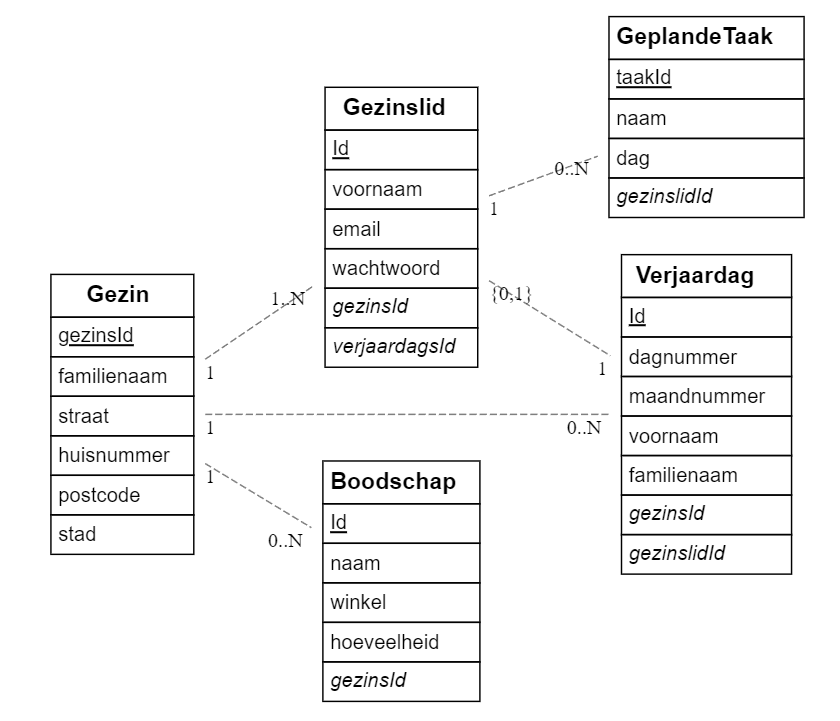
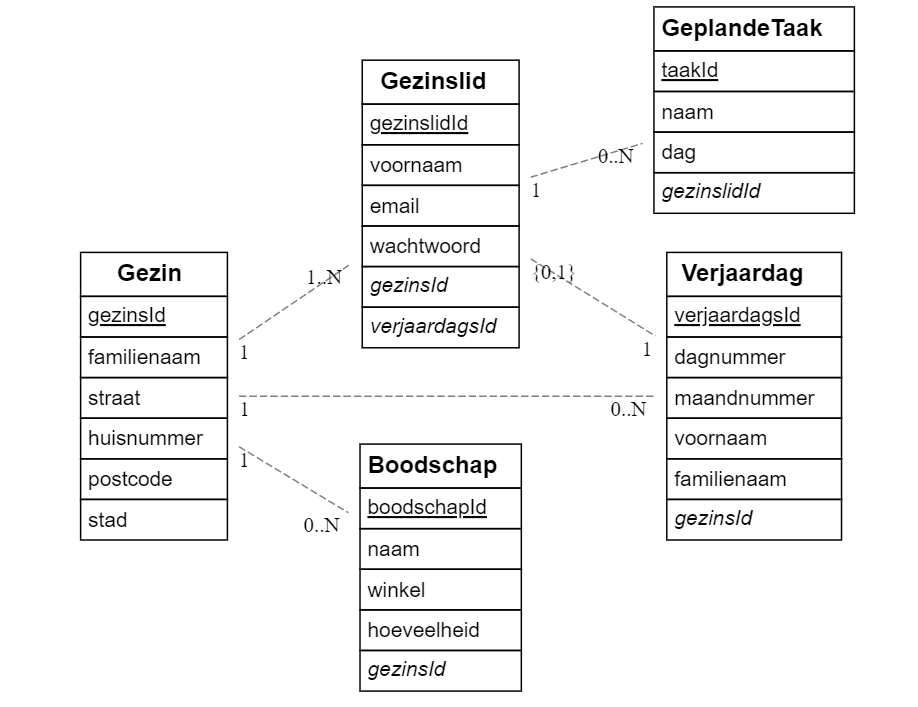
Maken SQL-DB en instellen connectie

diff --git a/src/data/index.js b/src/data/index.js
@@ -1,0 +1,75 @@
+const knex = require('knex'); // 👈 4
+const { getLogger } = require('../core/logging'); // 👈 8
+
+// 👇 1 - start config
+const config = require('config');
+
+const NODE_ENV = config.get('env');
+const isDevelopment = NODE_ENV === 'development';
+
+const DATABASE_CLIENT = config.get('database.client');
+const DATABASE_NAME = config.get('database.name');
+const DATABASE_HOST = config.get('database.host');
+const DATABASE_PORT = config.get('database.port');
+const DATABASE_USERNAME = config.get('database.username');
+const DATABASE_PASSWORD = config.get('database.password');
+// 👆 1 einde config
+
+let knexInstance; // 👈 5
+
+// 👇 2
+async function initializeData() {
+  const logger = getLogger(); // 👈 9
+  logger.info('Initializing connection to the database'); // 👈 9
+
+  // 👇 6 - start knex opties
+  const knexOptions = {
+    client: DATABASE_CLIENT,
+    connection: {
+      host: DATABASE_HOST,
+      port: DATABASE_PORT,
+      database: DATABASE_NAME,
+      user: DATABASE_USERNAME,
+      password: DATABASE_PASSWORD,
+      insecureAuth: isDevelopment,
+    },
+  };
+  // 👆 6 einde knex opties
+  knexInstance = knex(knexOptions); // 👈 7
+
+  // 👇 8
+  try {
+    await knexInstance.raw('SELECT 1+1 AS result');
+  } catch (error) {
+    logger.error(error.message, { error }); // 👈 9
+    throw new Error('Could not initialize the data layer'); // 👈 10
+  }
+
+  logger.info('Successfully initialized connection to the database'); // 👈 9
+
+  return knexInstance; // 👈 7
+}
+
+// 👇 11
+function getKnex() {
+  if (!knexInstance)
+    throw new Error(
+      'Please initialize the data layer before getting the Knex instance'
+    );
+  return knexInstance;
+}
+
+// 👇 12
+const tables = Object.freeze({
+  gezin: 'gezin',
+  gezinslid: 'gezinsleden',
+  boodschap: 'boodschappen',
+  verjaardag: 'verjaardagen',
+  geplandeTaak: 'geplandetaken'
+});
+
+module.exports = {
+  initializeData, // 👈 3
+  getKnex, // 👈 11
+  tables, // 👈 12
+};

diff --git a/src/index.js b/src/index.js
@@ -1,27 +1,50 @@
-// index.js
+
 const Koa = require('koa');
 const { initializeLogger, getLogger } = require('./core/logging');
 const config = require('config');
 const bodyParser = require('koa-bodyparser');
-const installRest = require('./rest'); // 👈 2
+const installRest = require('./rest');
 const app = new Koa();
+const koaCors = require('@koa/cors');
+const { initializeData } = require('./data');
 
 const NODE_ENV = config.get('env');
 const LOG_LEVEL = config.get('logging.level'); 
 const LOG_DISABLED = config.get("logging.disabled");
 const HOST_PORT = config.get("host.port");
+const CORS_ORIGINS = config.get('cors.origins');
+const CORS_MAX_AGE = config.get('cors.maxAge');
 
-initializeLogger({
-  level: LOG_LEVEL,
-  disabled: LOG_DISABLED,
-  defaultMeta: {
-    NODE_ENV,
-  },
-});
+async function main(){  
+  initializeLogger({
+    level: LOG_LEVEL,
+    disabled: LOG_DISABLED,
+    defaultMeta: {
+      NODE_ENV,
+    },
+  });
 
-app.use(bodyParser());
-installRest(app);
+  await initializeData();
 
-app.listen(HOST_PORT, () => {
-  getLogger().info(`🚀 Server listening on http://localhost:${HOST_PORT}`)
-});
+  app.use(
+    koaCors({
+      origin: (ctx) => { // 👈 4
+        if (CORS_ORIGINS.indexOf(ctx.request.header.origin) !== -1) {
+          return ctx.request.header.origin;
+        }
+        // Not a valid domain at this point, let's return the first valid as we should return a string
+        return CORS_ORIGINS[0];
+      },
+      allowHeaders: ['Accept', 'Content-Type', 'Authorization'], // 👈 5
+      maxAge: CORS_MAX_AGE, // 👈 6
+    })
+  );
+
+  app.use(bodyParser());
+  installRest(app);
+
+  app.listen(HOST_PORT, () => {
+    getLogger().info(`🚀 Server listening on http://localhost:${HOST_PORT}`)
+  });
+}
+main();

diff --git a/config/development.js b/config/development.js
@@ -5,5 +5,17 @@ module.exports = {
   },
   host:{
     port:9000
-  }
+  },
+  cors: { // 👈 1
+    origins: ['http://localhost:5173'], // 👈 2
+    maxAge: 3 * 60 * 60, // 👈 3
+  },
+  database: {
+    client: 'mysql2',
+    host: 'localhost',
+    port: 3306,
+    name: 'gezinsplanner',
+    username: 'root',
+    password: '',
+  },
 }

diff --git a/config/production.js b/config/production.js
@@ -5,5 +5,9 @@ module.exports = {
   },
   host:{
     port:9000
-  }
+  },
+  cors: { // 👈 1
+    origins: ['http://localhost:5173'], // 👈 2
+    maxAge: 3 * 60 * 60, // 👈 3
+  },
 }

diff --git a/config/custom-environment-variables.js b/config/custom-environment-variables.js
@@ -1,3 +1,8 @@
 module.exports = {
-  env:"NODE_ENV"
+  env:"NODE_ENV",
+  database: {
+    password: 'DATABASE_PASSWORD',
+    username:'DATABASE_USER'
+  }
+    
 }
